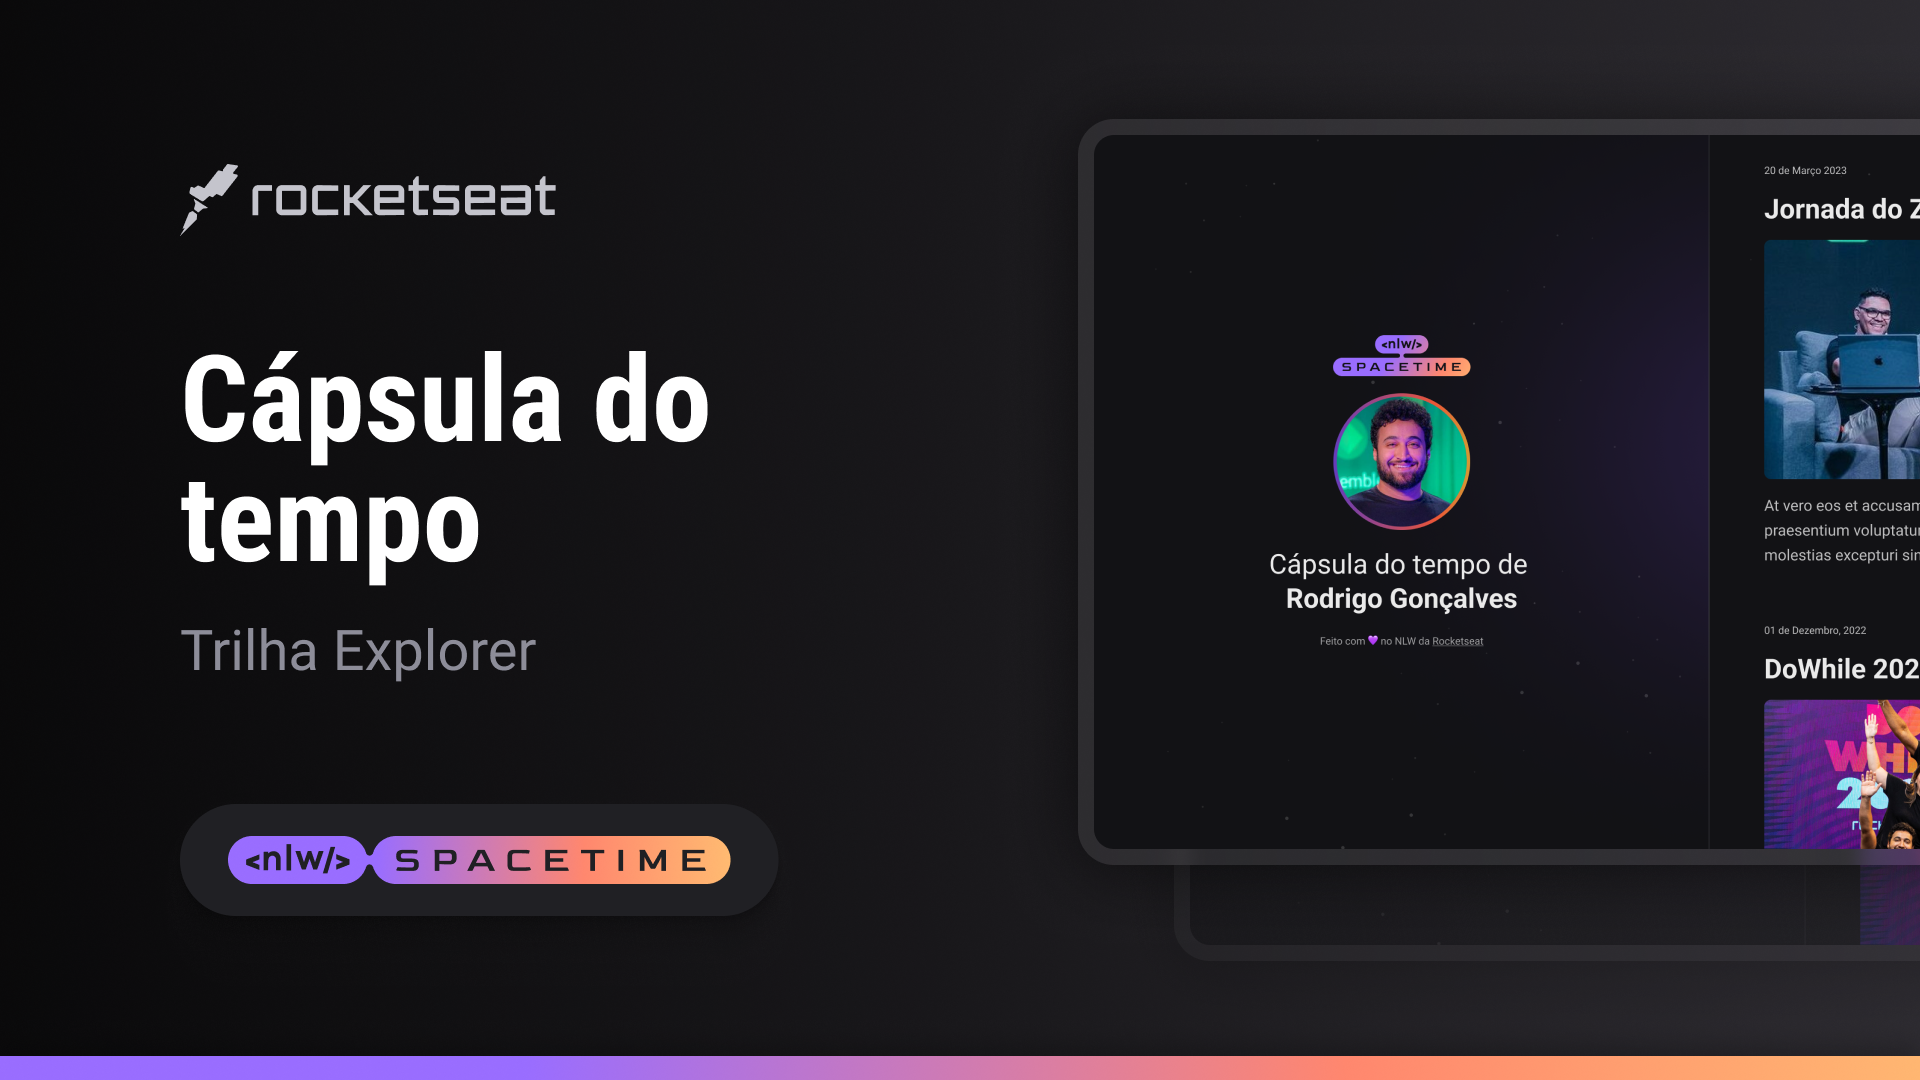
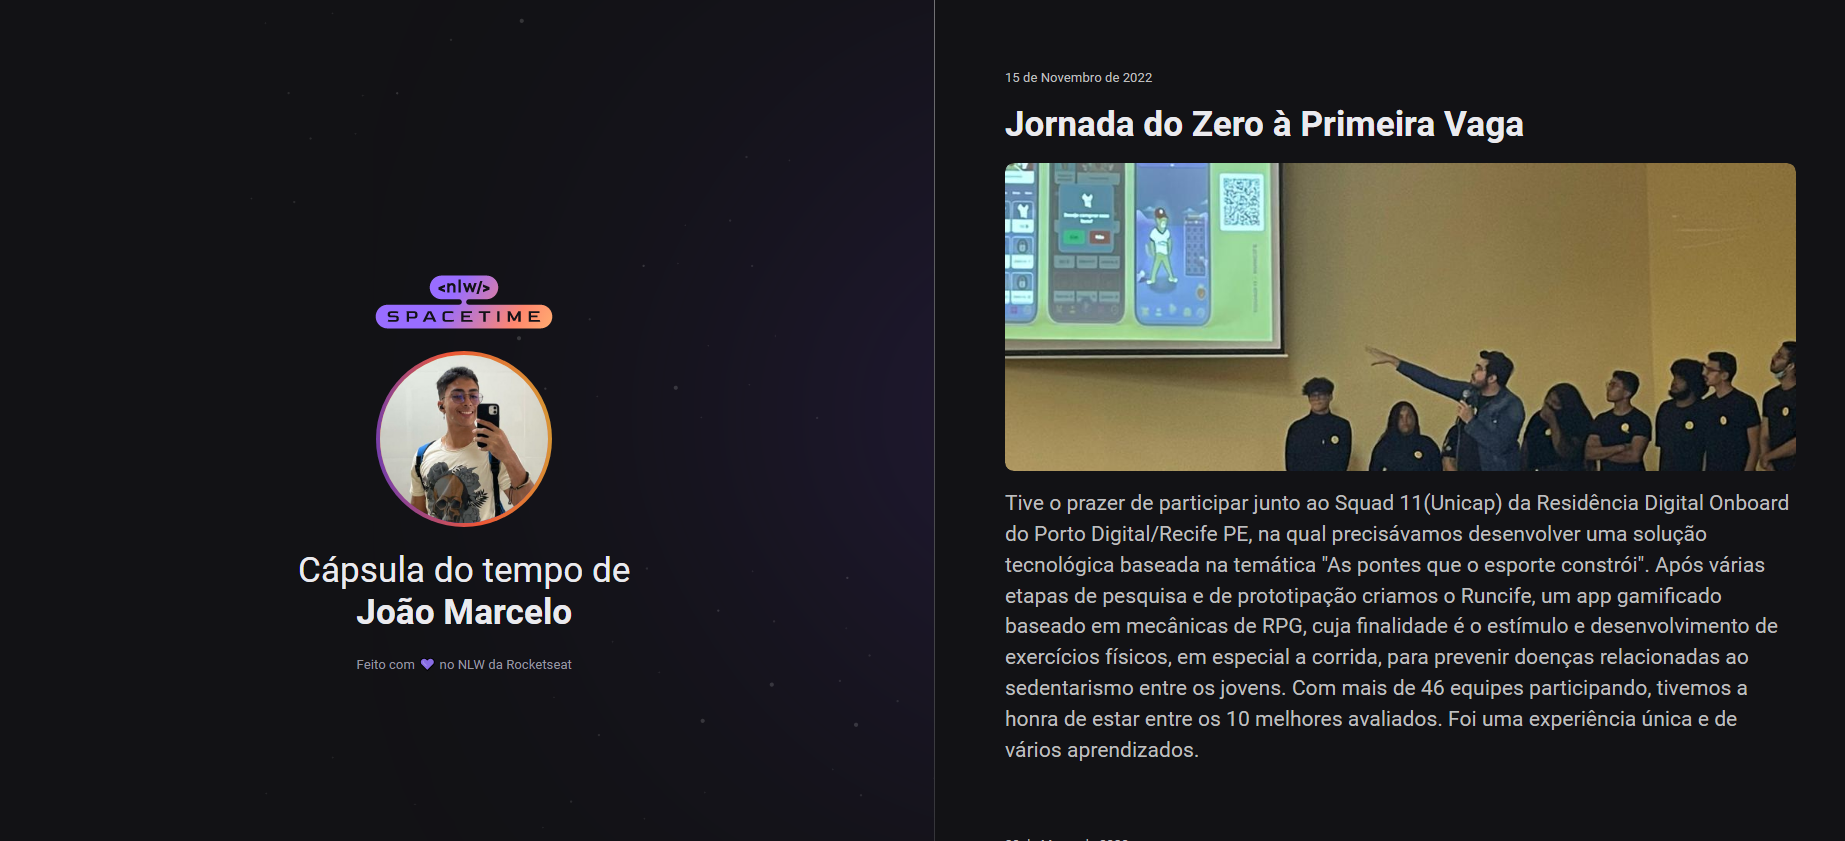
Modificando o texto

diff --git a/index.html b/index.html
@@ -32,7 +32,7 @@
         target="_blank"
         class="memory"
       >
-        <small>20 de Março de 2023</small>
+        <small>15 de Novembro de 2022</small>
         <h1>Jornada do Zero à Primeira Vaga</h1>
         <div>
           <img
@@ -41,10 +41,16 @@
           />
         </div>
         <p>
-          At vero eos et accusamus et iusto odio dignissimos ducimus qui
-          blanditiis praesentium voluptatum deleniti atque corrupti quos dolores
-          et quas molestias excepturi sint occaecati cupiditate non provident,
-          similique...
+          Tive o prazer de participar junto ao Squad 11(Unicap) da Residência
+          Digital Onboard do Porto Digital/Recife PE, na qual precisávamos
+          desenvolver uma solução tecnológica baseada na temática "As pontes que
+          o esporte constrói". Após várias etapas de pesquisa e de prototipação
+          criamos o Runcife, um app gamificado baseado em mecânicas de RPG, cuja
+          finalidade é o estímulo e desenvolvimento de exercícios físicos, em
+          especial a corrida, para prevenir doenças relacionadas ao sedentarismo
+          entre os jovens. Com mais de 46 equipes participando, tivemos a honra
+          de estar entre os 10 melhores avaliados. Foi uma experiência única e
+          de vários aprendizados.
         </p>
       </a>
       <a

diff --git a/README.md b/README.md
@@ -1,3 +1,3 @@
 <p>
- <img scr=".github/Preview.png" alt="Demonstração do projeto" width= "100%"/>
+ <img scr=".github/preview.png" alt="Demonstração do projeto" width= "100%"/>
 </p>
